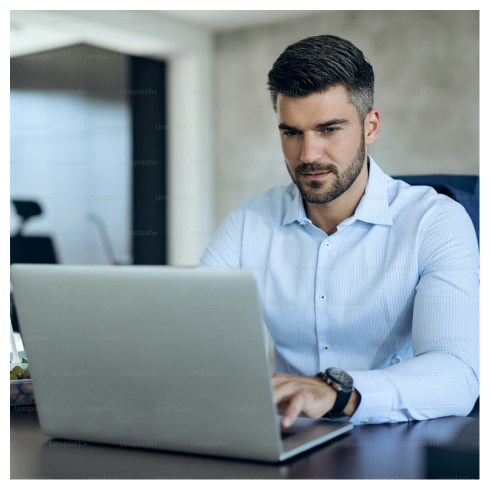
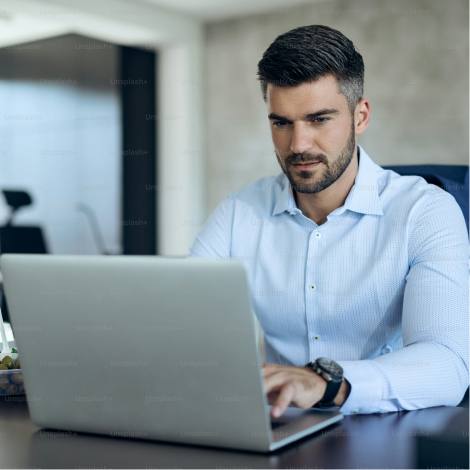
updates

Changed region(s): [[0.0, 0.0, 1.0, 1.0], [0.6851, 0.6553, 0.7447, 0.6851]]

diff --git a/about.html b/about.html
@@ -8,6 +8,8 @@
     <link rel="stylesheet" href="index.css">
     <link rel="stylesheet" href="bootstrap.css">
     <link rel="stylesheet" href="about.css">
+    <link rel="stylesheet" href="https://cdnjs.cloudflare.com/ajax/libs/font-awesome/6.7.2/css/fontawesome.min.css" integrity="sha512-v8QQ0YQ3H4K6Ic3PJkym91KoeNT5S3PnDKvqnwqFD1oiqIl653crGZplPdU5KKtHjO0QKcQ2aUlQZYjHczkmGw==" crossorigin="anonymous" referrerpolicy="no-referrer" />
+    <link rel="stylesheet" href="https://cdnjs.cloudflare.com/ajax/libs/font-awesome/6.7.2/css/all.min.css" integrity="sha512-Evv84Mr4kqVGRNSgIGL/F/aIDqQb7xQ2vcrdIwxfjThSH8CSR7PBEakCr51Ck+w+/U6swU2Im1vVX0SVk9ABhg==" crossorigin="anonymous" referrerpolicy="no-referrer" />
     <title>MHM Service || About</title>
 </head>
 <body>
@@ -76,16 +78,25 @@
                     <div class="overlay-bg position-absolute top-0 bottom-0 start-0 end-0 w-100"></div>
                 </div>
             </section>
-            <section>
-                <div class="p-lg-5 p-2">
-                    <div class="container row m-0 p-0">
-                        <div>
-                            <div>
+            <section class="position-relative">
+                <div class="p-lg-5 p-3 position-relative">
+                    <div class="container row m-0 p-0 position-relative">
+                        <div class="position-relative d-md-flex flex-column align-items-start col-lg-7 col-6 abt d-none">
+                            <div class="abt-first d-lg-block d-none">
                                 <img src="abt1.jpg" alt="">
                             </div>
-                            <div></div>
+                            <div class="abt-second bottom-0 d-flex align-items-center justify-content-center p-lg-2 p-0">
+                                <img src="abt2.jpg" alt="">
+                            </div>
                         </div>
-                        <div></div>
+                        <div class="col-lg-5 col-md-6 col-12 p-2 text-center">
+                            <div class="about-heading col-12">
+                                <h4>About us - <span>MHM Tech</span></h4>
+                            </div>
+                            <div class="about-con text-start">
+                                <p><span>MHM TECH</span> is a <span>forward-thinking</span> technology <span>company</span> dedicated to <span>delivering</span> innovative solutions that empower <span>businesses to succeed</span> in the digital world. We specialize in web development, <span>UI/UX</span> design, <span>app</span> development, <span>software quality</span> engineering, SEO, <span>graphic design</span>, and <span>video editing</span>. With a team of experienced <span>professionals</span>, we <span>combine</span> creativity, technical expertise, and a <span>customer-first</span>  approach to help our clients achieve their <span>goals</span> . Our mission is to provide <span>high-quality</span>, reliable, and <span>salable</span> solutions that <span>enhance user</span> experiences, drive growth, and <span>help businesses</span> thrive in a constantly evolving <span>digital landscape</span>.</p>
+                            </div>
+                        </div>
                     </div>
                 </div>
             </section>
@@ -110,4 +121,5 @@
         </div>
     </div>
 </body>
+<script src="bootstrap.js"></script>
 </html>

diff --git a/about.css b/about.css
@@ -1,9 +1,116 @@
 .about{
-    height: 60vh;
+    height: 40vh;
 }
 .about .img img{
-    height: 60vh;
+    height: 40vh;
 }
 .overlay-bg{
     background: hsla(0, 0%, 0%, 0.80);
+}
+.abt .abt-first{
+    transition: all 0.6s ease;
+    animation: jump 1s linear infinite;
+}
+@keyframes jump {
+    0% {
+        transform: translateY(-9px);
+    } 50% {
+        transform: translateY(0px);
+    } 100% {
+        transform: translateY(3px);
+    }
+
+}
+.abt .abt-first img{
+    width: 360px;
+    height: 350px;
+    border-radius: 15px !important;
+}
+.abt .abt-second{
+    position: relative;
+    background: #fff;
+    height: fit-content;
+    width: 360px;
+}
+.abt .abt-second img{
+    width: 330px;
+    height: 330px;
+}
+.about-heading h4{
+    font-family: "Urbanist", serif;
+    font-size: 28px;
+    font-weight: 600;
+}
+.about-con p{
+    font-family: "Urbanist", serif;
+    font-size: 16px;
+    font-weight: 500;
+}
+span{
+    color: #F57920;
+}
+@media only screen and (min-width: 768px) {
+    .about{
+        height: 45vh;
+    }
+    .about .img img{
+        height: 45vh;
+    }
+    .abt .abt-second{
+        width: 320px;
+    }
+    .abt .abt-second img{
+        border-radius: 15px;
+    }
+    .abt-second{
+        top: 0 !important;
+        right: 0 !important;
+    }
+}
+@media only screen and (min-width: 992px) {
+    .about{
+        height: 50vh;
+    }
+    .about .img img{
+        height: 50vh;
+    }
+    .abt{
+        height: 100vh;
+    }
+    .abt .abt-second{
+        position: absolute;
+        width: 360px;
+    }
+    .abt .abt-second img{
+        width: 350px;
+        height: 330px;
+        border-radius: 0px;
+    }
+    .abt-second{
+        top: 18em !important;
+        right: 9em !important;
+    }
+    .about-heading h4{
+        font-size: 40px;
+    }
+    .about-con p{
+        font-size: 22px;
+    }
+}
+@media only screen and (max-width: 1197px) {
+    .abt .abt-first img{
+        width: 318px;
+        height: 313px;
+    }
+    .abt .abt-second{
+        width: 310px;
+    }
+    .abt .abt-second img{
+        width: 300px;
+        height: 285px;
+    }
+    .abt-second{
+        top: 15em !important;
+        right: 4em !important;
+    }
 }

diff --git a/index.css b/index.css
@@ -255,7 +255,7 @@ textarea{
     background-repeat: no-repeat;
     background-position: center center;
     background-size: cover;
-    height: 90vh;
+    height: 80vh;
 }
 .help-txt{
     height: 100%;
@@ -393,6 +393,9 @@ textarea{
 }
 .wapp .sp{
     color: #373737;
+}
+.mail-in a:hover{
+    color: #F57920;
 }
 @media only screen and (max-width: 500px) {
     .footer-bar div .lg{

diff --git a/index.js b/index.js
@@ -241,7 +241,6 @@ function nextCardSlide(direction) {
 // Initial setup
 screenSize()
 updateCardPositions();
-serviceButtonState();
 
 // Event listeners for buttons
 ser_next.addEventListener('click', () => nextCardSlide(1)); // Move to next card
